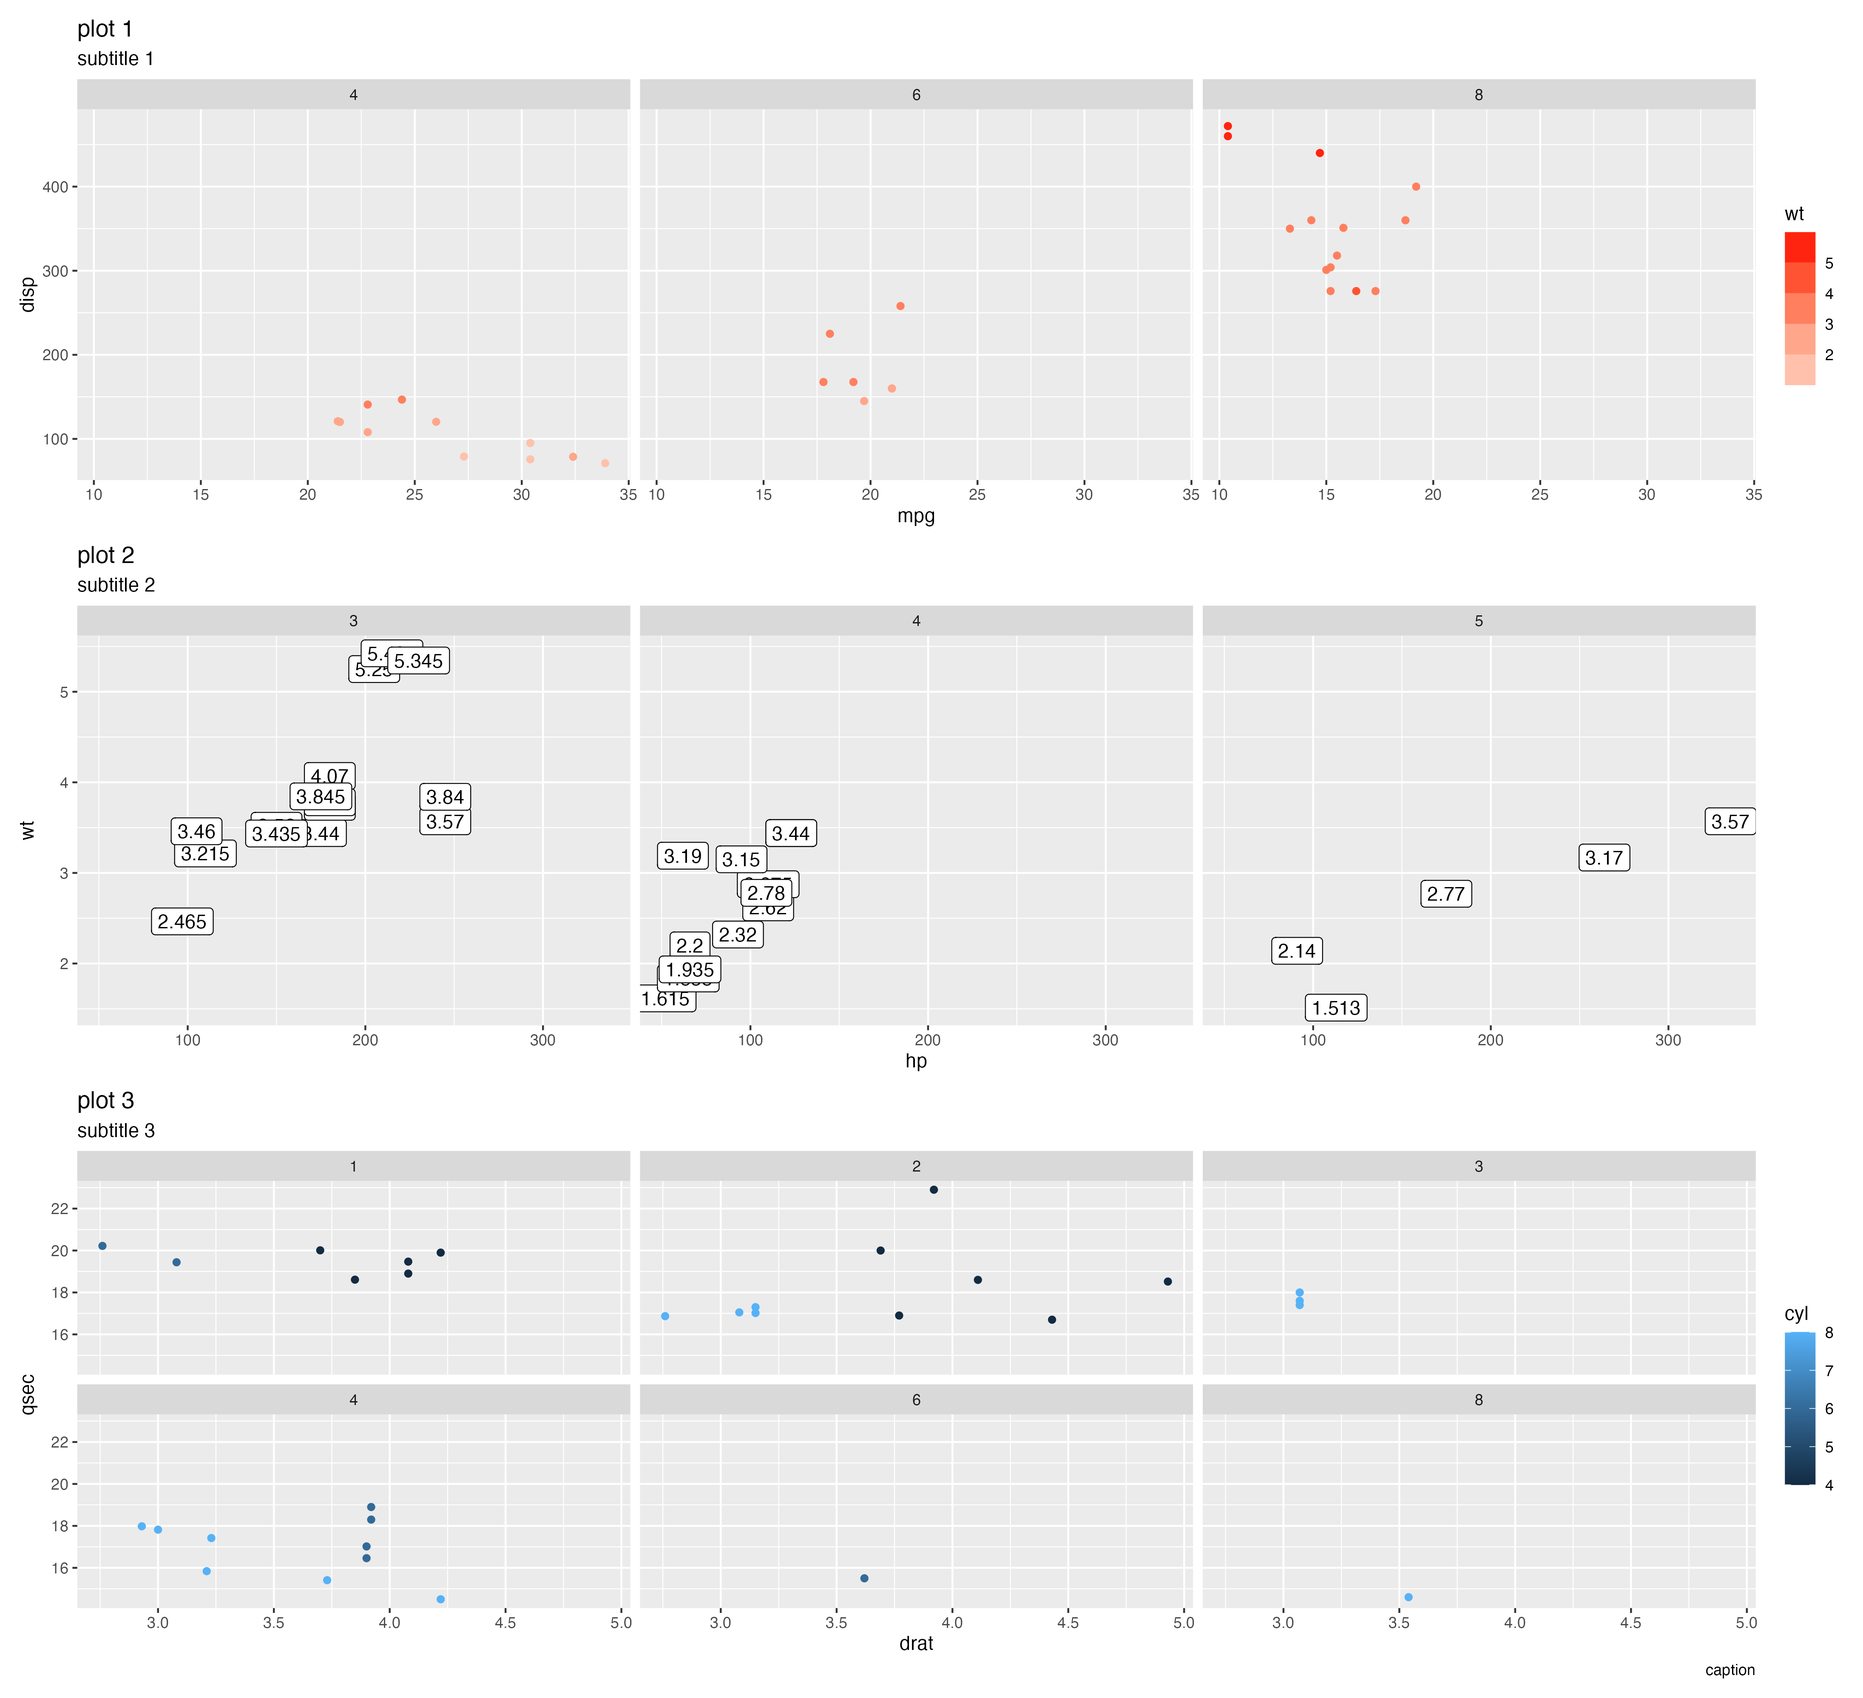
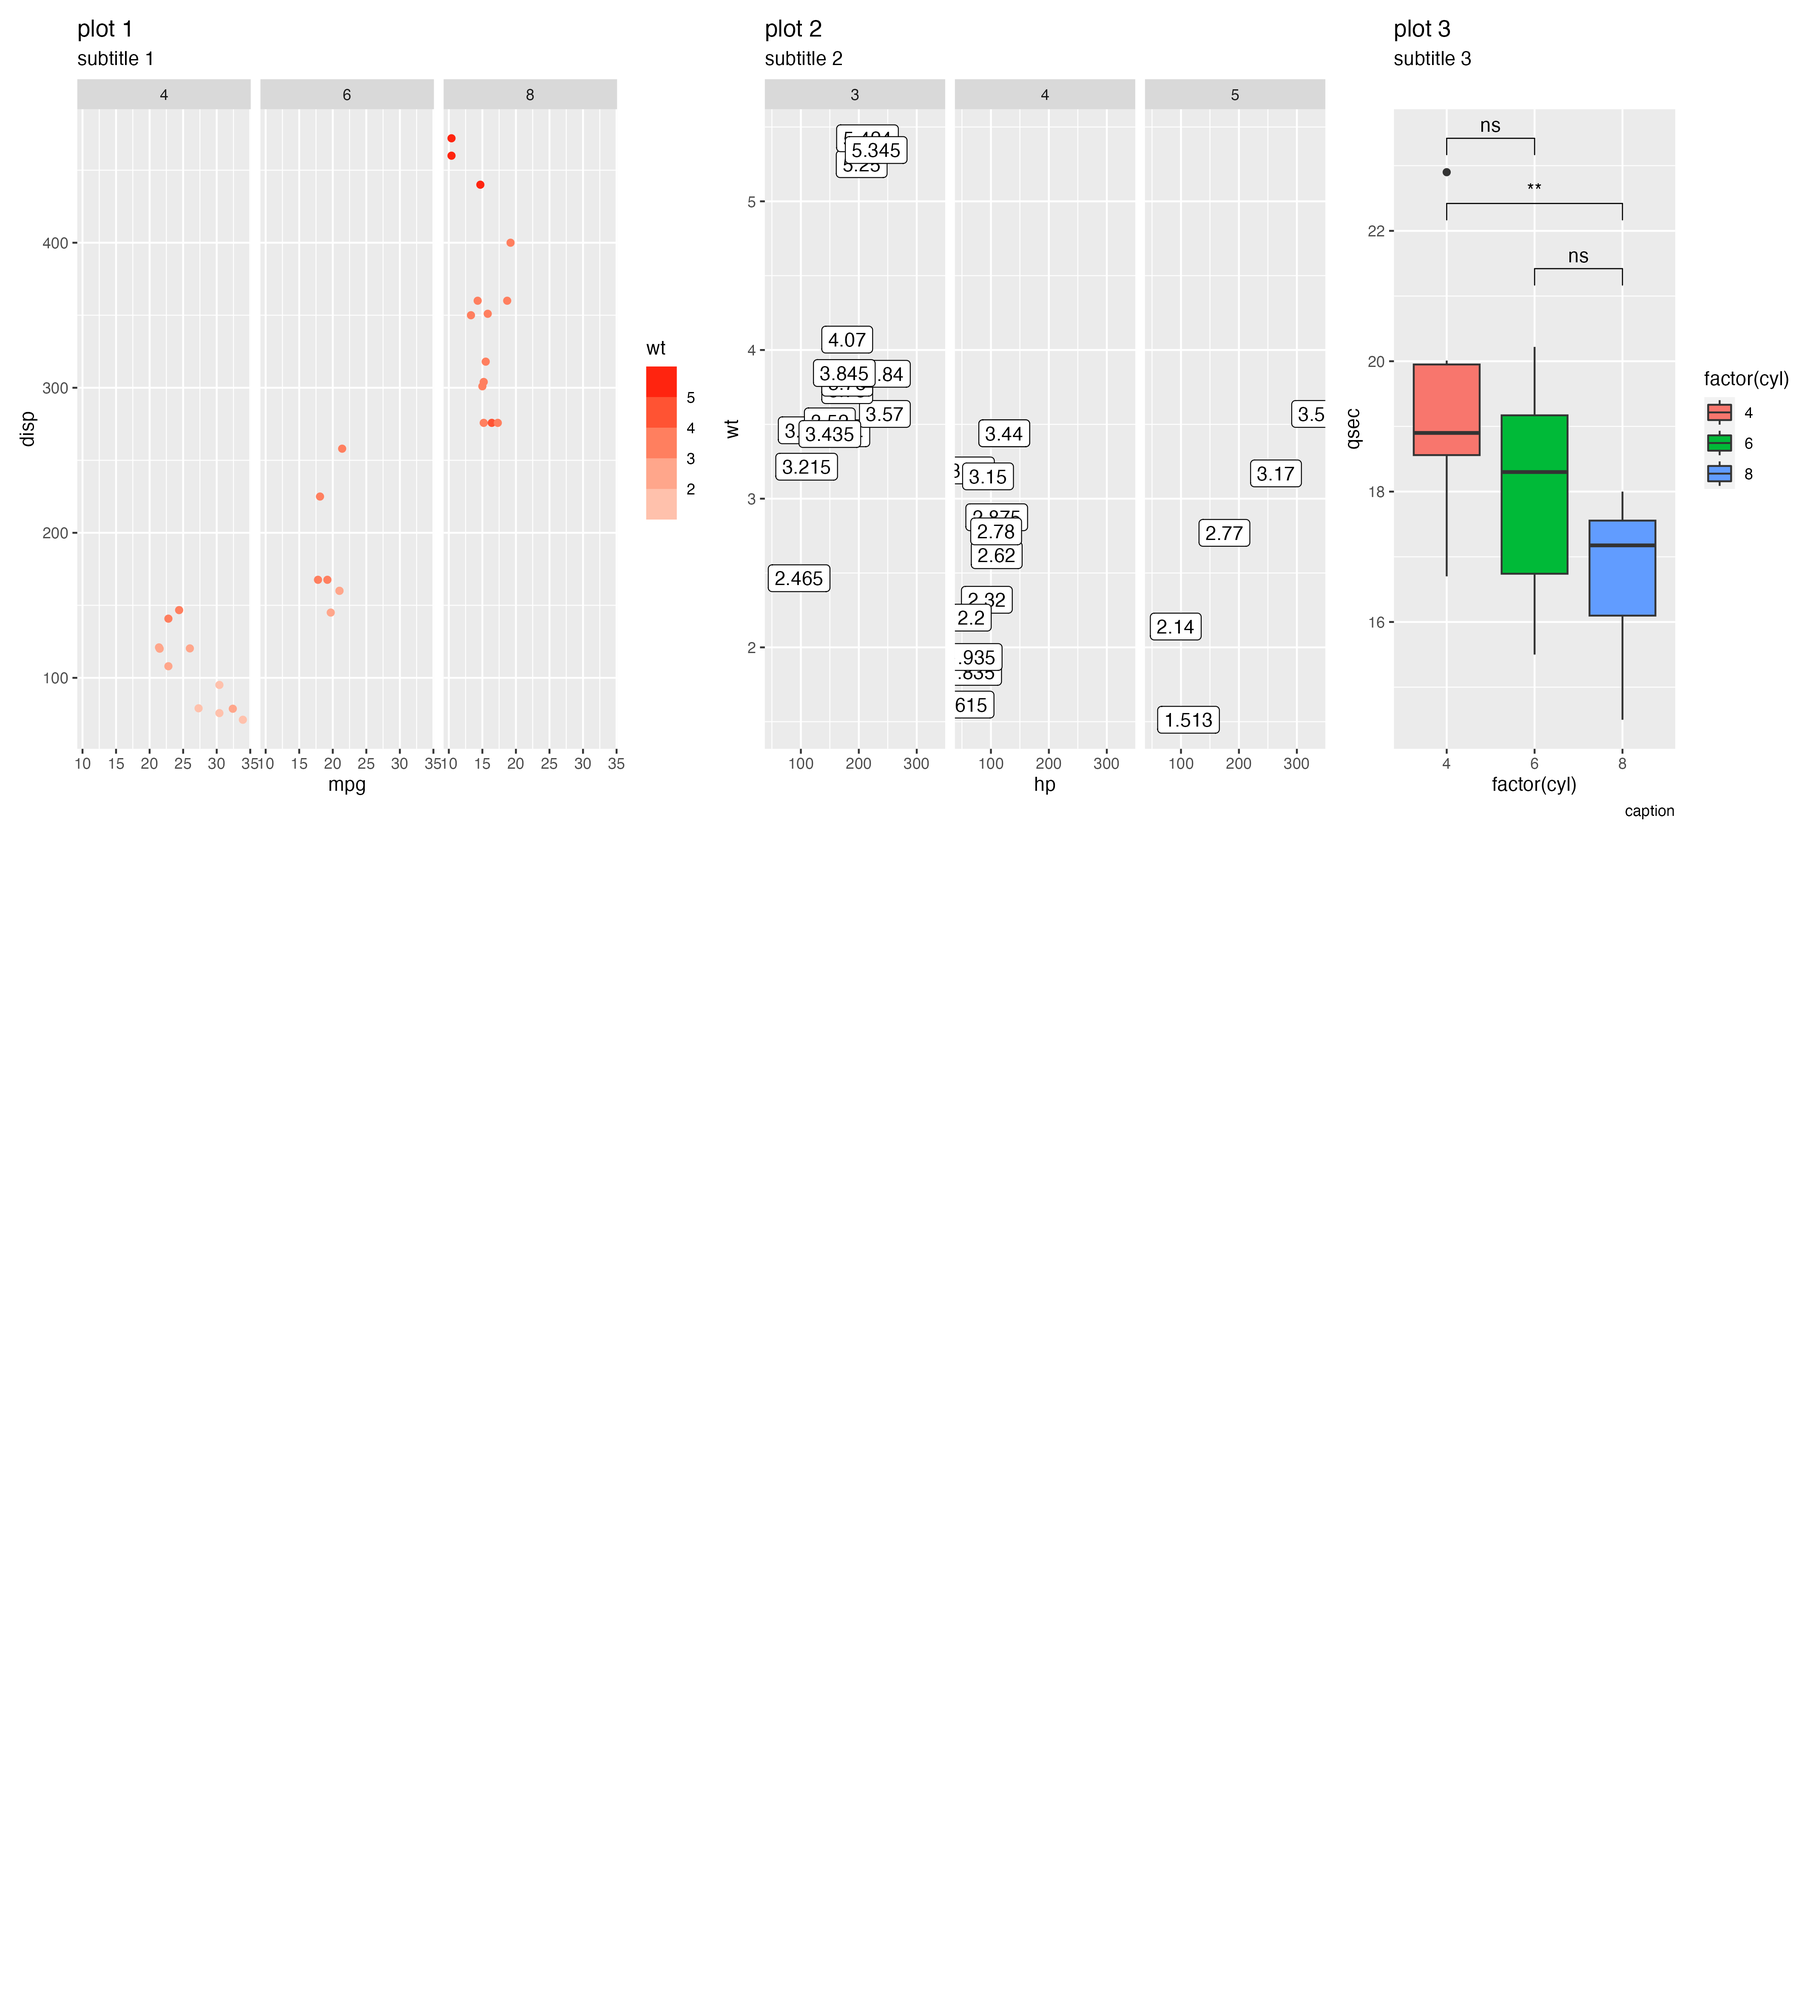
update

diff --git a/README.md b/README.md
@@ -104,7 +104,7 @@ Without `autoggsaveR`:
 library(patchwork)
 ggplot2::ggsave(plot = p1 + p2 + p3, filename = file.path("example_images", "test-no_auto.png"))
 
-# Saving 9.4 x 6.86 in image
+# Saving 6.74 x 6.86 in image
 ```
 
 ![alt text](example_images/test-no_auto.png)
@@ -116,7 +116,7 @@ library(autoggsaveR)
 auto_save_plot(
     plot = plot_lst, 
     filename = "example_images/test_withauto.png", 
-    ncol = 1,
+    ncol = 3,
     verbose = TRUE
 )
 
@@ -136,33 +136,30 @@ auto_save_plot(
 
 # Found:
 # num_plots = 3
-# num_layers = 1
-# num_facets = 6
+# num_layers = 2
+# num_facets = 0
 # num_text = 5
-# num_annots = 0
+# num_annots = 1
 
 
-# Complexity score = 5.83
+# Complexity score = 7.71
 # aspect_ratio = 1.11
-# widths = 8.31
-# heights = 7.59
+# widths = 10.67
+# heights = 9.75
 
-# Complexity score = 6.16
+# Complexity score = 8.04
 # aspect_ratio = 1.11
-# widths = 8.74
-# heights = 7.98
+# widths = 11.08
+# heights = 10.12
 
-# Complexity score = 6.82
-# aspect_ratio = 1.32
-# widths = 11.18
-# heights = 8.75
+# Complexity score = 5.85
+# aspect_ratio = 0.71
+# widths = 5.56
+# heights = 7.62
 
 
-# Making plot parent directory...
-
-# Final width = 14.61
-# Final height = 13.31
-# Done!
+# Final width = 14.26
+# Final height = 15.71
 ```
 
 ![alt text](example_images/test_withauto.png)
